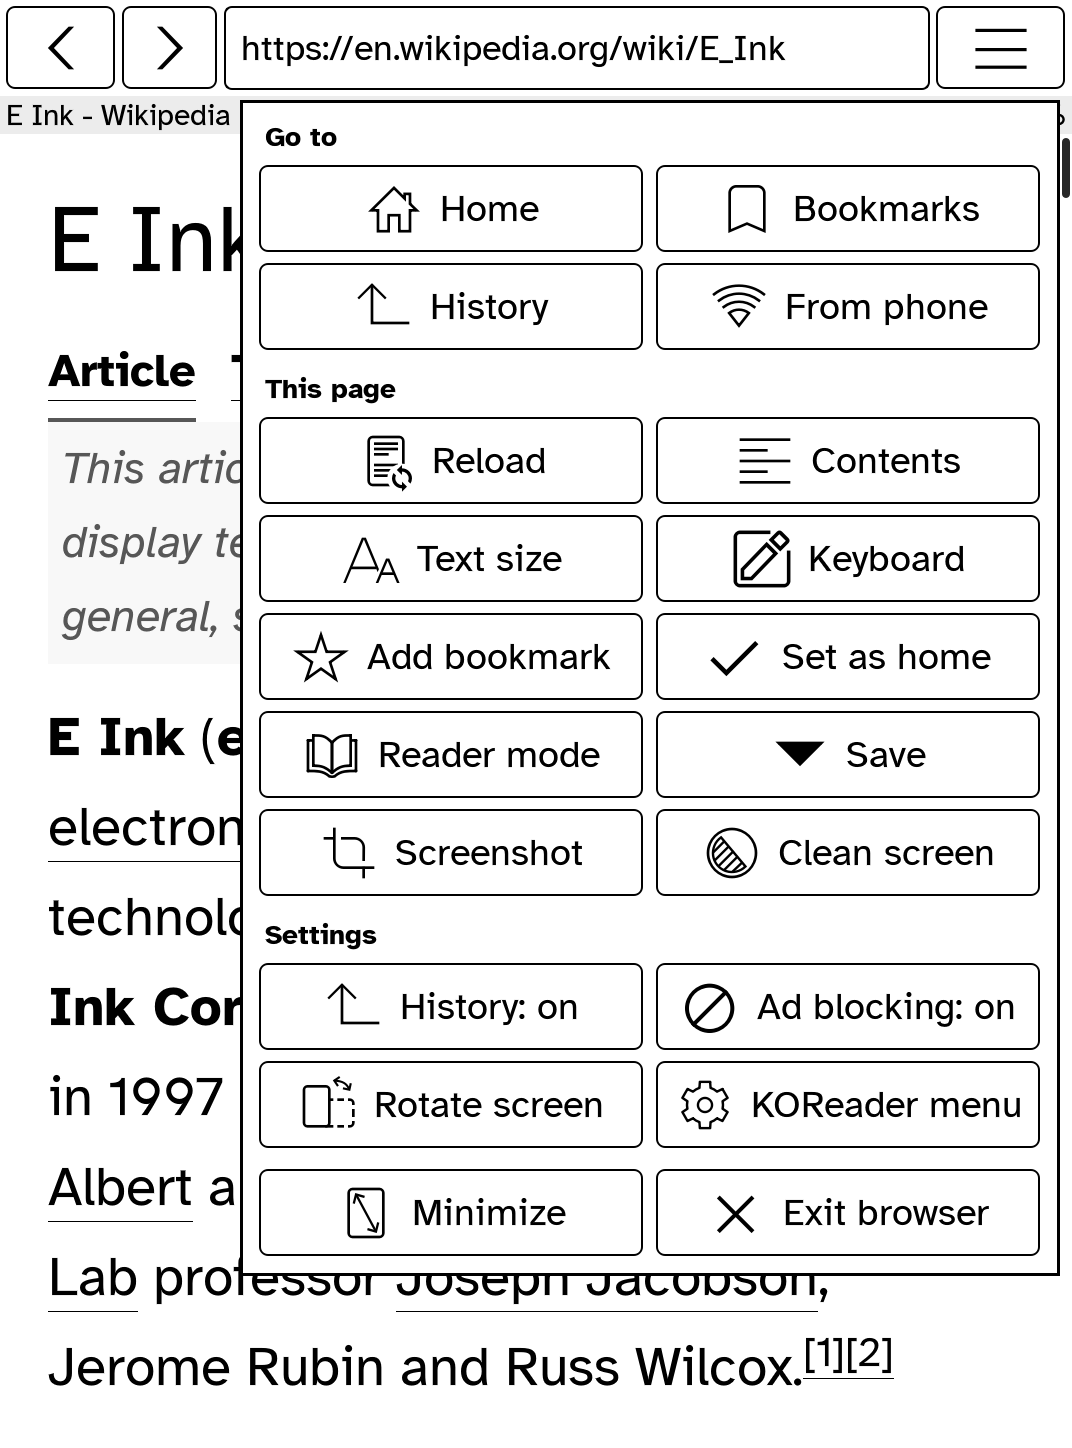
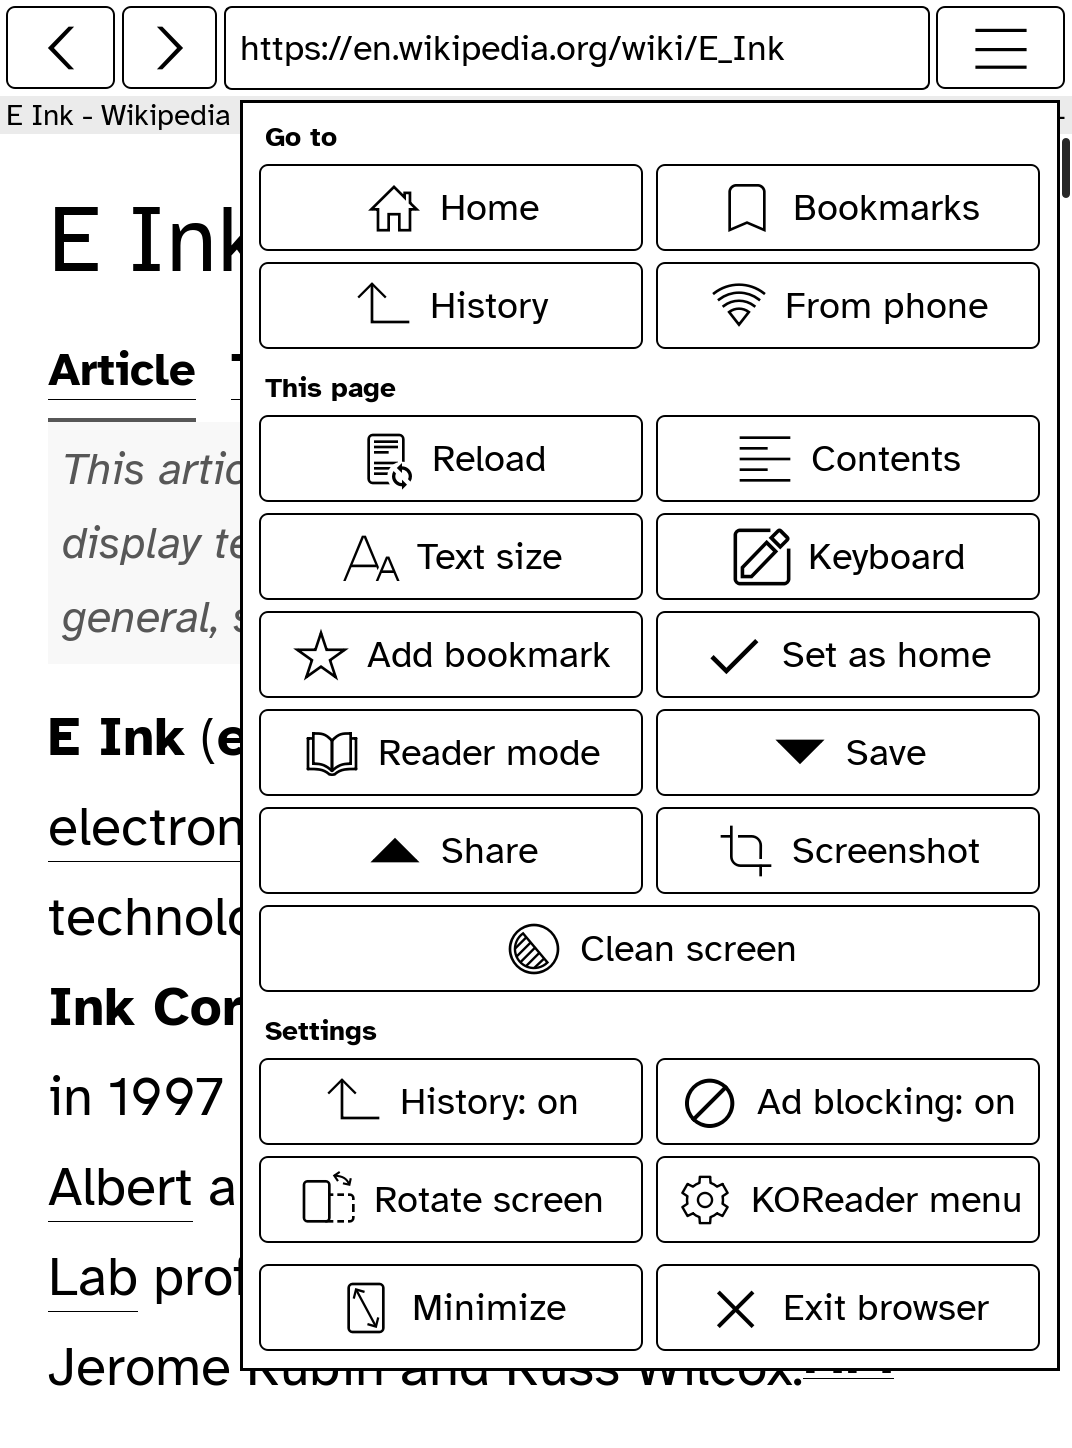
README: fresh Menu, keyboard and From phone screenshots; add Share and wake screen shots
Taken in the emulator with the current build: the Menu with Share, KOReader's keyboard
typing into the address bar, the phone link window with Minimize/Stop, Share's QR code,
and the wake screen with Close browser / Offline copy.

diff --git a/README.md b/README.md
@@ -55,7 +55,7 @@ older NXP and Allwinner models are untested.
 <p align="center">
   <img src="docs/screenshots/article-image.png" width="30%" alt="An article with a diagram, at a smaller text size">
   <img src="docs/screenshots/search.png" width="30%" alt="Search results">
-  <img src="docs/screenshots/keyboard.png" width="30%" alt="The built-in keyboard">
+  <img src="docs/screenshots/keyboard.png" width="30%" alt="KOReader's keyboard typing straight into the address bar">
 </p>
 <p align="center">
   <img src="docs/screenshots/contents.png" width="30%" alt="Contents: jump to a heading">
@@ -87,8 +87,12 @@ paste a link and tap **Open on the Kobo**. Phone and Kobo need to be on the same
 the browser needs to be open. The phone link only runs once you open From phone:
 **Minimize** keeps it ready while you browse, **Stop** turns it off.
 
+The other way round, **Menu → Share** shows a QR code of the page you're on, so you can
+open it on your phone.
+
 <p align="center">
-  <img src="docs/screenshots/phone.png" width="30%" alt="Send to Kobo: the QR code">
+  <img src="docs/screenshots/phone.png" width="30%" alt="Send to Kobo: the QR code, with Minimize and Stop">
+  <img src="docs/screenshots/share.png" width="30%" alt="Share: a QR code of the current page">
 </p>
 
 ### Bookmarks, history and a home page
@@ -119,6 +123,10 @@ the browser needs to be open. The phone link only runs once you open From phone:
   the browser reopens on the same page. If Wi-Fi isn't back yet, you can read a saved copy.
 - Frontlight: swipe up or down along the left edge for brightness, the right edge for
   warmth.
+
+<p align="center">
+  <img src="docs/screenshots/wake.png" width="30%" alt="After sleep: reconnecting Wi-Fi, with Close browser and Offline copy">
+</p>
 
 ## How to use it
 
